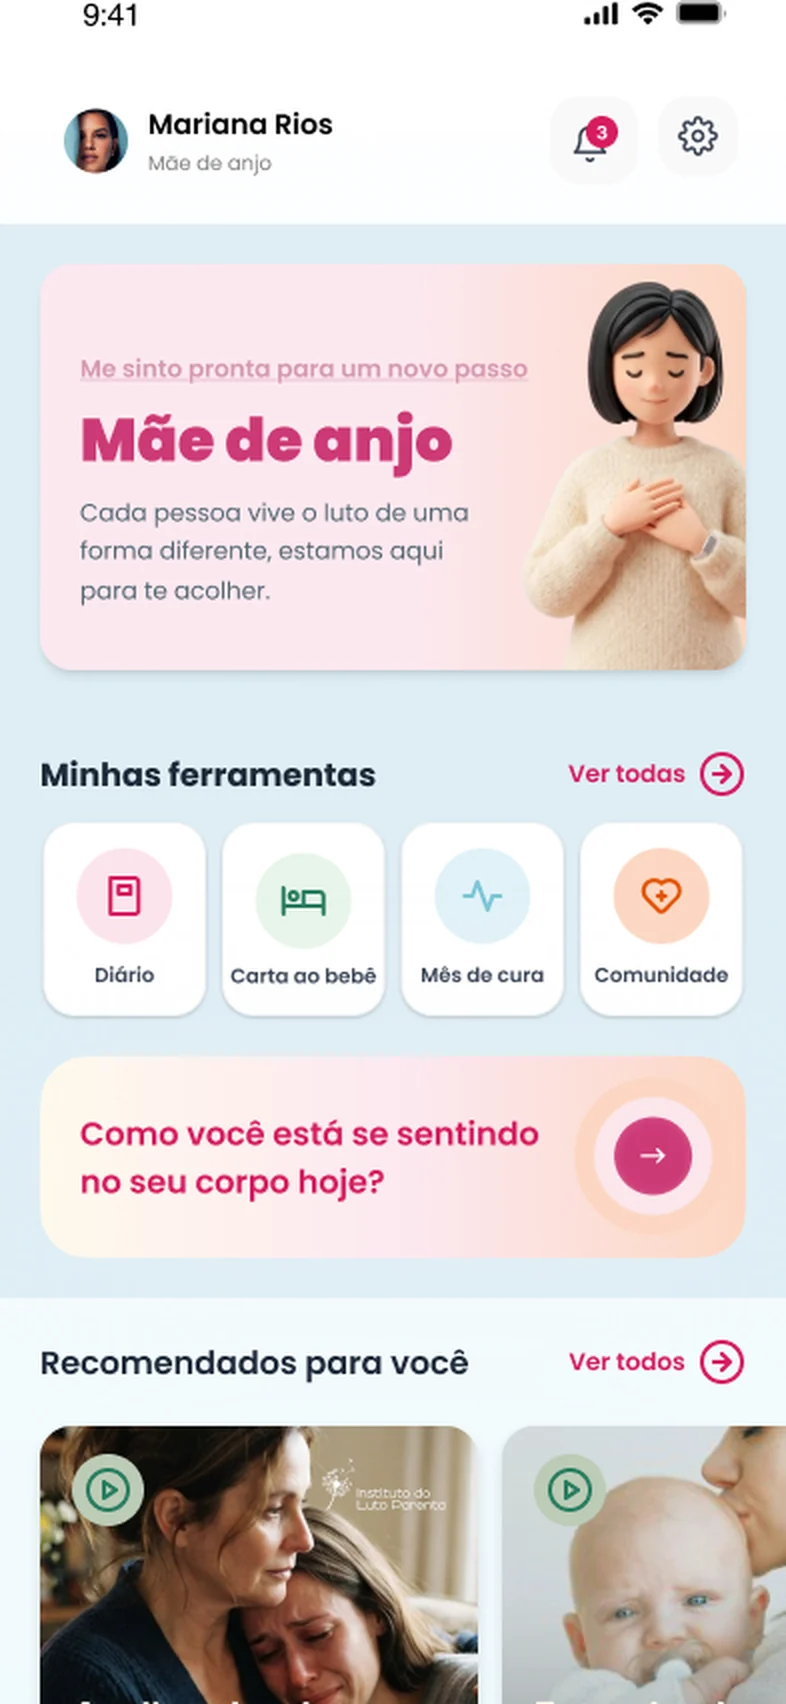
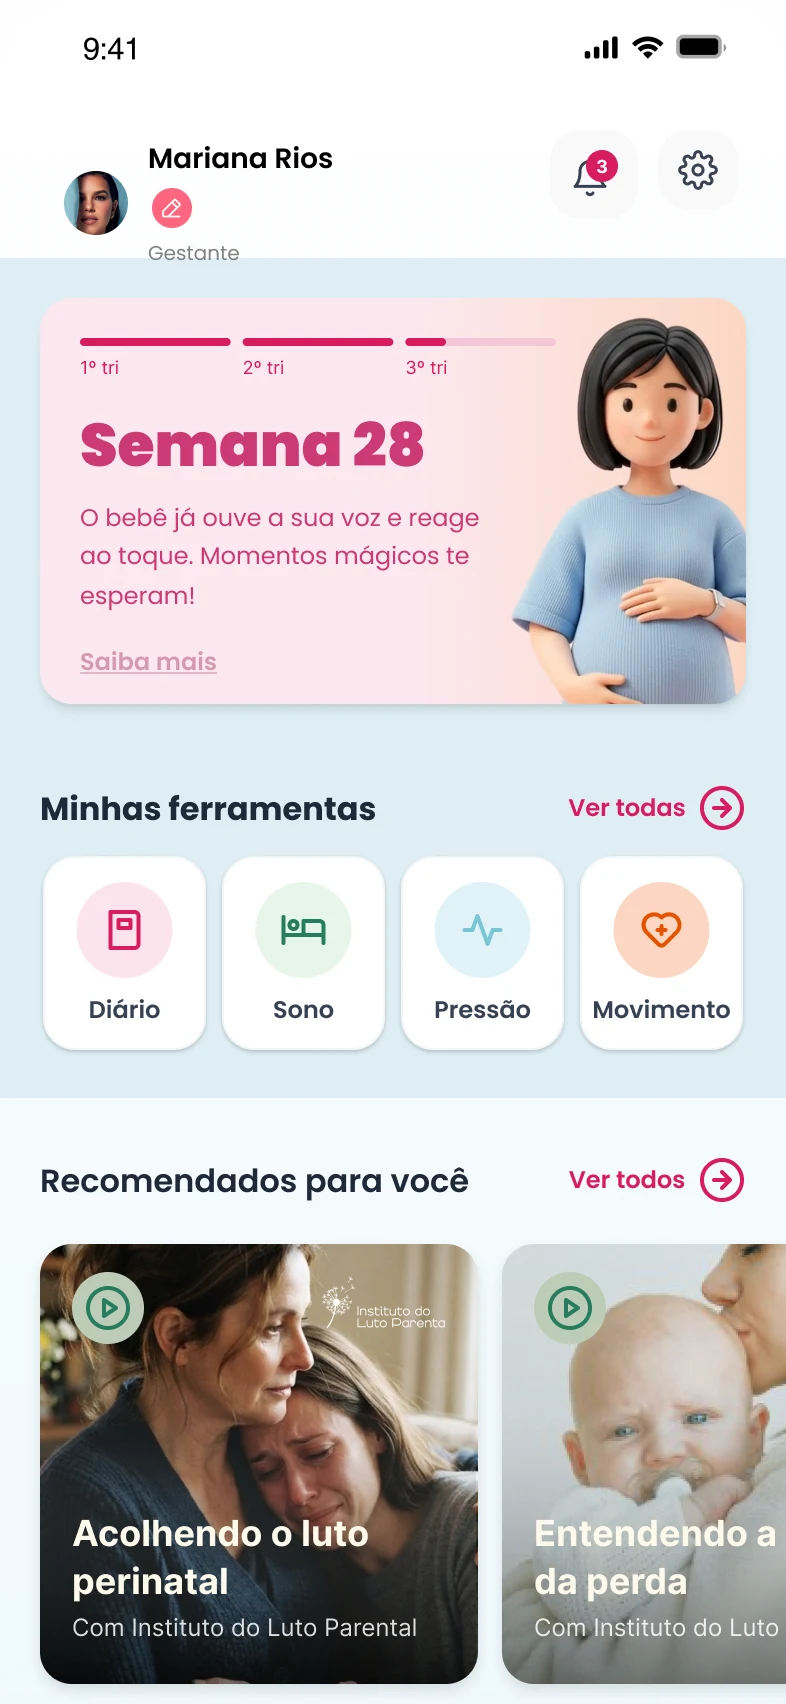
fix: apply Eva feedback to Caju LP (origin copy, image overlap, app screen, hero photo)

diff --git a/styles.css b/styles.css
@@ -157,8 +157,10 @@ section{position:relative;padding-block:96px}
 
 /* ---------- tese ---------- */
 .tese{background:linear-gradient(160deg,var(--salvia-2),var(--salvia));padding:0;overflow:hidden}
-.tese .col{display:grid;grid-template-columns:minmax(0,.8fr) minmax(0,1.2fr);min-height:560px}
-.tese-foto{position:absolute;left:0;bottom:0;height:min(560px,100%);width:auto;max-width:none}
+/* --fw: largura da foto; a coluna de texto começa sempre 24px depois dela */
+.tese{--fw:clamp(240px,calc(34vw - 120px),432px)}
+.tese .col{display:grid;grid-template-columns:max(0px,calc(var(--fw) - var(--edge) + 24px)) minmax(0,1fr);min-height:560px}
+.tese-foto{position:absolute;left:0;bottom:0;width:var(--fw);height:auto;max-width:none}
 .tese-txt{grid-column:2;align-self:center;padding-block:96px}
 .tese h2{color:var(--verde-ink);font-size:clamp(28px,2.9vw,40px);font-weight:800}
 .tese-txt>p{margin-top:20px;color:#2C4A3E}
@@ -210,8 +212,11 @@ section{position:relative;padding-block:96px}
 
 /* ---------- origem ---------- */
 .origem{background:linear-gradient(160deg,#FDF0F4,var(--rosa));padding:0;overflow:hidden}
-.origem .col{display:grid;grid-template-columns:minmax(0,.8fr) minmax(0,1.2fr);min-height:500px}
-.origem-foto{position:absolute;left:0;bottom:0;height:min(500px,100%);width:auto;max-width:none}
+.origem{--fw:clamp(240px,calc(34vw - 120px),424px)}
+.origem .col{display:grid;grid-template-columns:max(0px,calc(var(--fw) - var(--edge) + 24px)) minmax(0,1fr);min-height:500px}
+.origem-fig{position:absolute;left:0;bottom:0;width:var(--fw);margin:0}
+.origem-foto{display:block;width:100%;height:auto;max-width:none}
+.origem-fig figcaption{position:absolute;left:24px;bottom:20px;padding:6px 14px;border-radius:999px;background:rgba(255,255,255,.92);color:var(--magenta-ink);font-size:13px;font-weight:600;line-height:1.3}
 .origem-txt{grid-column:2;align-self:center;padding-block:88px}
 .origem h2{color:var(--magenta-ink);font-weight:800}
 .origem-txt>p{margin-top:18px;color:#5C4450}
@@ -289,8 +294,7 @@ section{position:relative;padding-block:96px}
   .form-card{position:relative;max-width:560px;margin:-36px auto 0;width:calc(100% - 2 * var(--gut))}
   .hero{min-height:0}
   .hero-txt{padding-bottom:84px;max-width:min(430px,58%)}
-  .hero-foto{left:auto;right:-40px}
-  .tese .col,.origem .col{grid-template-columns:minmax(0,.7fr) minmax(0,1.3fr)}
+  .hero-foto{left:auto;right:-24px;top:auto;bottom:0;height:auto;width:min(44vw,560px)}
   .telas{height:400px}
   .barra{display:block;position:fixed;left:0;right:0;bottom:0;z-index:50;padding:10px 16px calc(10px + env(safe-area-inset-bottom));background:rgba(255,255,255,.94);backdrop-filter:blur(10px);-webkit-backdrop-filter:blur(10px);border-top:1px solid var(--borda);transform:translateY(110%);transition:transform .25s cubic-bezier(.16,1,.3,1)}
   .barra.on{transform:none}
@@ -320,7 +324,7 @@ section{position:relative;padding-block:96px}
   .tese .col,.origem .col{grid-template-columns:1fr;min-height:0}
   .tese-txt,.origem-txt{grid-column:1;padding:56px 0 0}
   .tese,.origem{display:flex;flex-direction:column-reverse}
-  .tese-foto,.origem-foto{position:relative;height:auto;width:80%;max-width:340px;margin:28px 0 0}
+  .tese-foto,.origem-fig{position:relative;height:auto;width:80%;max-width:340px;margin:28px 0 0}
   .recursos,.planos-grid,.rh-grid,.passos{grid-template-columns:1fr}
   .passos::before{left:18px;right:auto;top:18px;bottom:18px;width:2px;height:auto;background:var(--caju-2)}
   .passos li{padding-left:56px}

diff --git a/index.html b/index.html
@@ -63,7 +63,7 @@
         </ul>
         <p class="hero-alt">Prefere tirar dúvidas antes? <a href="#solicitar" data-modo="conversa">Falar com um especialista</a></p>
       </div>
-      <img class="hero-foto" src="assets/img/hero-mae-trabalho.webp" alt="Mulher sorrindo com o bebê no colo, diante do notebook" width="1092" height="1249" fetchpriority="high">
+      <img class="hero-foto" src="assets/img/hero-mae-trabalho.webp" alt="Mulher sorrindo com o bebê no colo, diante do notebook" width="1380" height="1490" fetchpriority="high">
     </div>
   </section>
 
@@ -280,7 +280,7 @@
       </ul>
     </div>
     <div class="telas" aria-label="Telas do app Eva Maternidade">
-      <figure class="tela t1"><img src="assets/img/app-home.webp" alt="Tela inicial do app com a jornada Mãe de anjo e ferramentas" width="786" height="1704" loading="lazy"></figure>
+      <figure class="tela t1"><img src="assets/img/app-home.webp" alt="Tela inicial do app na jornada Gestante, semana 28, com ferramentas e conteúdos recomendados" width="786" height="1704" loading="lazy"></figure>
       <figure class="tela t2"><img src="assets/img/app-curso.webp" alt="Tela de curso do app: Acolhendo o luto perinatal" width="786" height="1704" loading="lazy"></figure>
       <figure class="tela t3"><img src="assets/img/app-saude.webp" alt="Tela de saúde do app com acompanhamentos, consultas e o botão Fale com um especialista" width="786" height="1704" loading="lazy"></figure>
     </div>
@@ -347,12 +347,16 @@
 
   <!-- origem -->
   <section class="origem" aria-labelledby="origem-t">
-    <img class="origem-foto" src="assets/img/mariana-rios.webp" alt="Mariana Rios" width="862" height="1016" loading="lazy">
+    <figure class="origem-fig">
+      <img class="origem-foto" src="assets/img/mariana-rios.webp" alt="Mariana Rios" width="862" height="1016" loading="lazy">
+      <figcaption>Mariana Rios · Eva Maternidade</figcaption>
+    </figure>
     <div class="wrap col">
       <div class="origem-txt">
         <h2 id="origem-t">Nasceu da escuta de experiências reais</h2>
         <p>Das tentativas, dos tratamentos, das perdas, das mudanças da gestação, das incertezas do puerpério e da volta ao trabalho.</p>
-        <p>O Basta Sentir, de Mariana Rios, mostrou a força do acolhimento e da comunidade. A Eva Saúde trouxe a estrutura clínica, tecnológica e multidisciplinar. A Eva Maternidade junta as duas coisas em uma jornada contínua de cuidado.</p>
+        <p>Mariana Rios viveu essa jornada, inclusive as perdas que quase ninguém vê, e transformou o que ouviu de tantas outras mulheres na base da Eva Maternidade.</p>
+        <p>Hoje, essa escuta se junta a uma equipe clínica multidisciplinar: acolhimento, comunidade e cuidado especializado em uma jornada contínua, do desejo de engravidar à volta ao trabalho.</p>
       </div>
     </div>
   </section>
